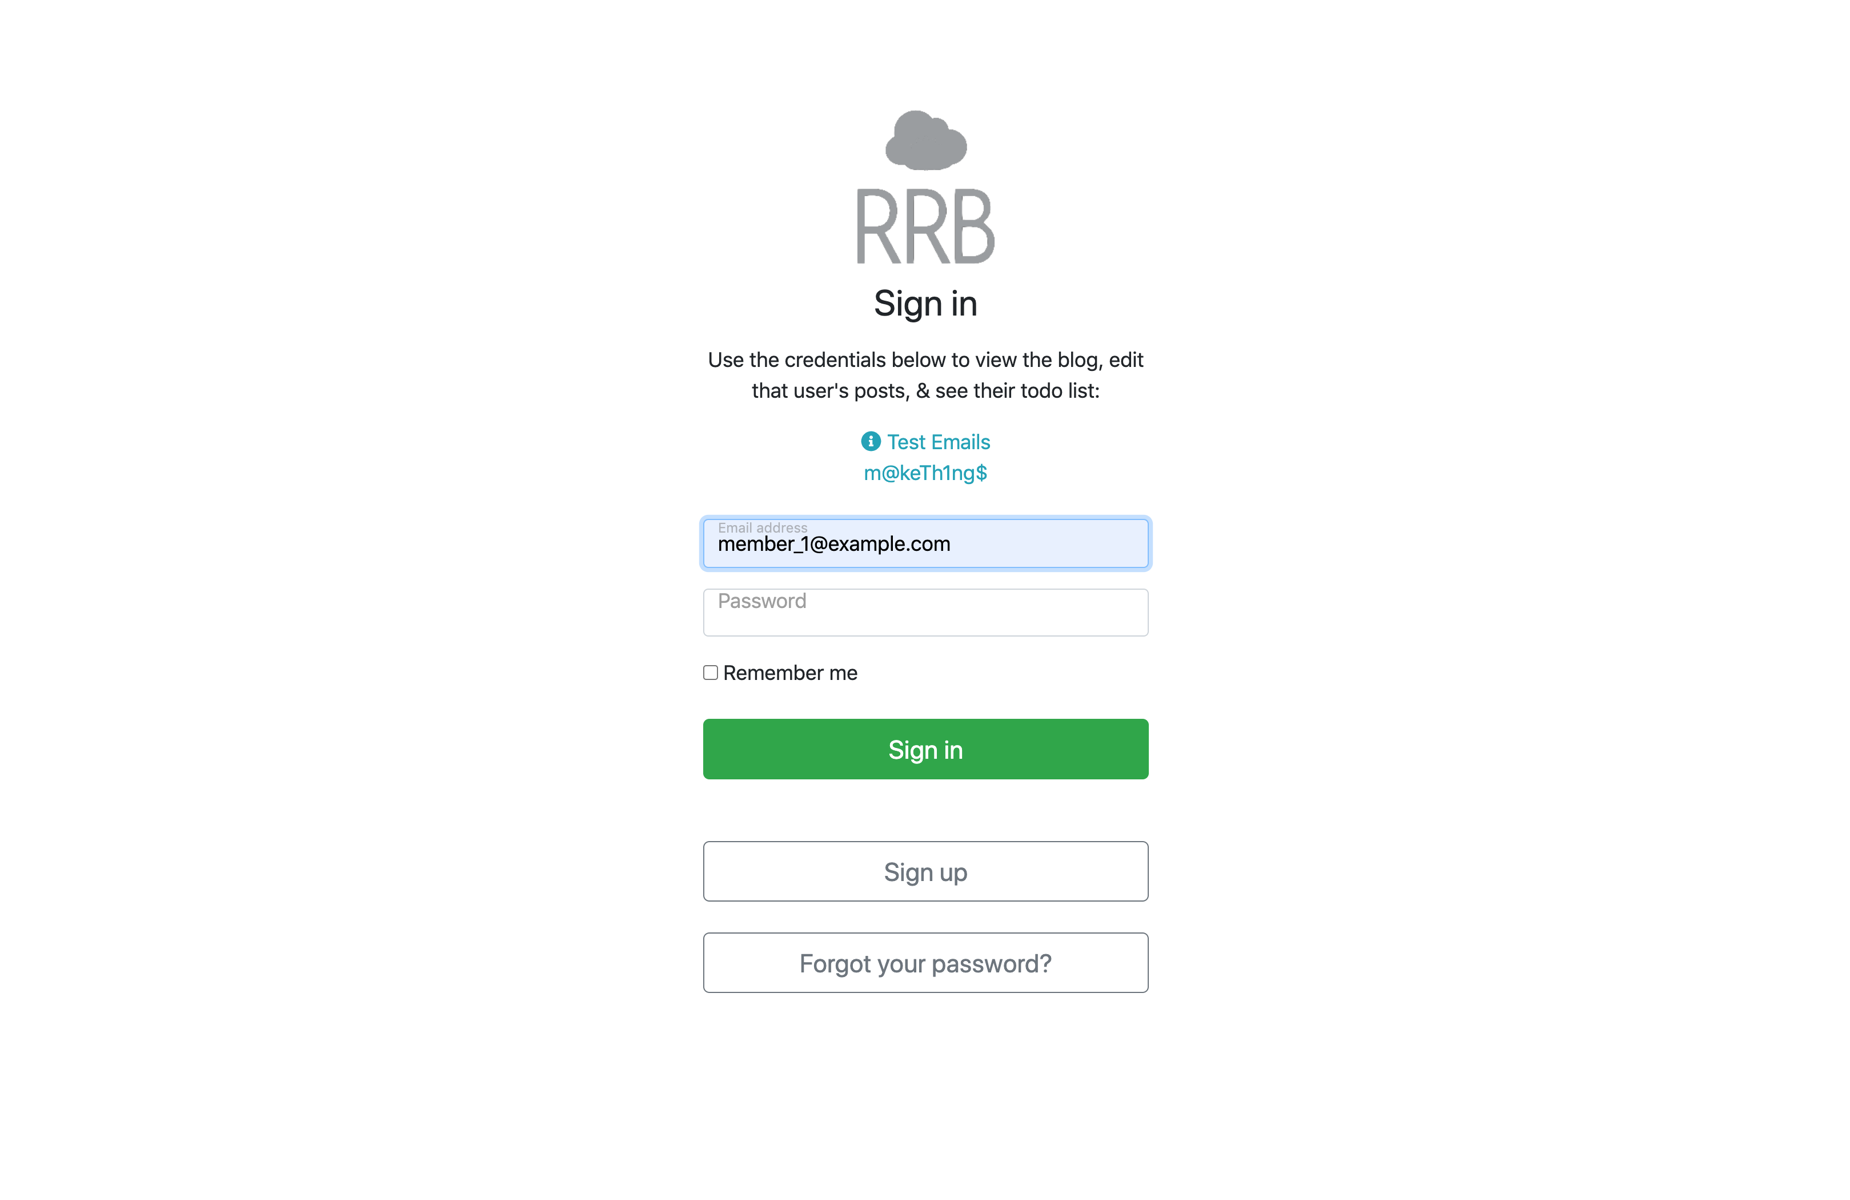
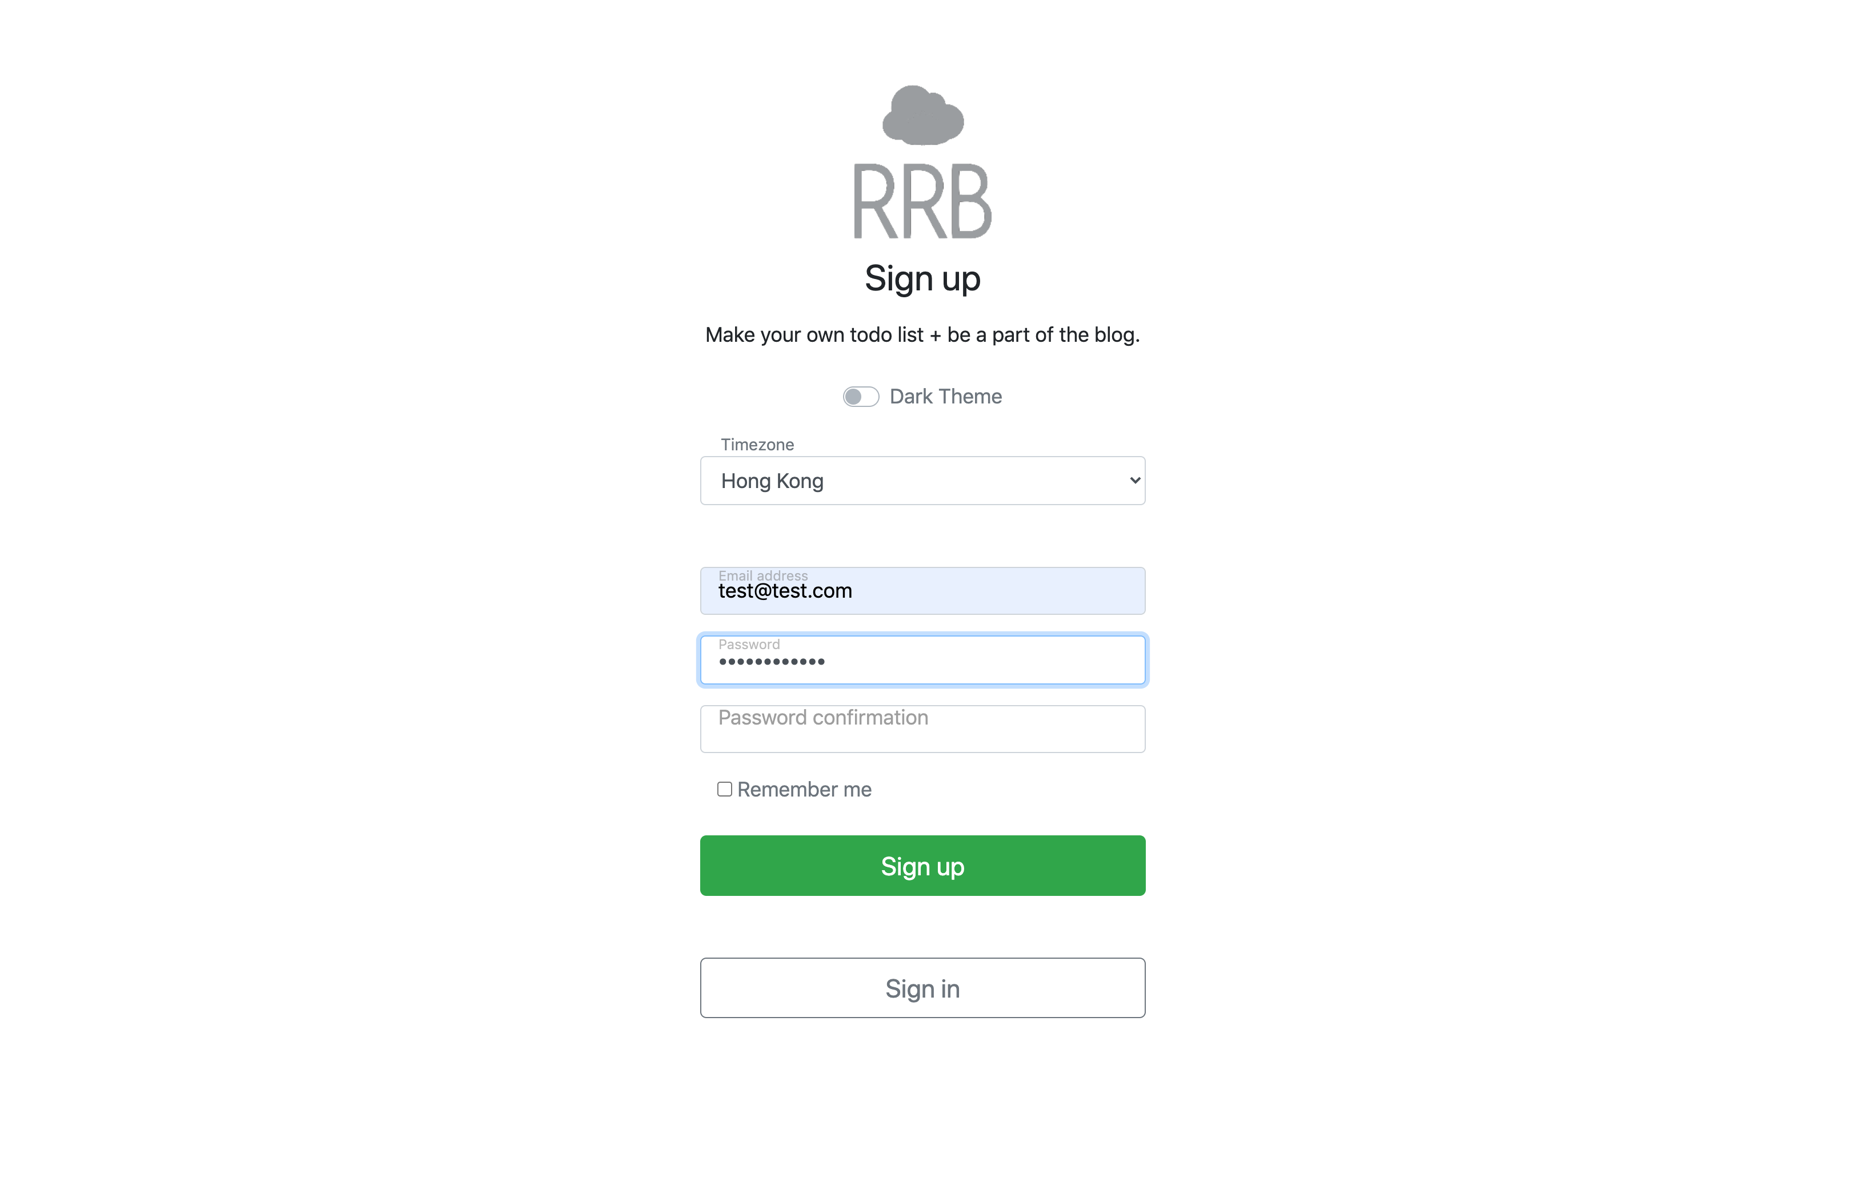
Layout updates
Devise and Welcome

Changed region(s): [[0.3697, 0.0617, 0.647, 0.8325], [0.6162, 0.4317, 0.647, 0.4625]]

diff --git a/app/assets/stylesheets/devise.scss b/app/assets/stylesheets/devise.scss
@@ -5,7 +5,7 @@ body.authorization {
   display: -ms-flexbox;
   display: flex;
   height: 100vh;
-  min-height: 800px;
+  min-height: 860px;
   -ms-flex-align: center;
   align-items: center;
   padding-top: 0px;
@@ -60,7 +60,7 @@ p.visitor, p.superadmin {cursor:grab;}
 .form-label-group > input,
 .form-label-group > label {
   padding: var(--input-padding-y) var(--input-padding-x);
-  padding-left: 12px;
+  padding-left: 15px;
 }
 
 .form-label-group > label {
